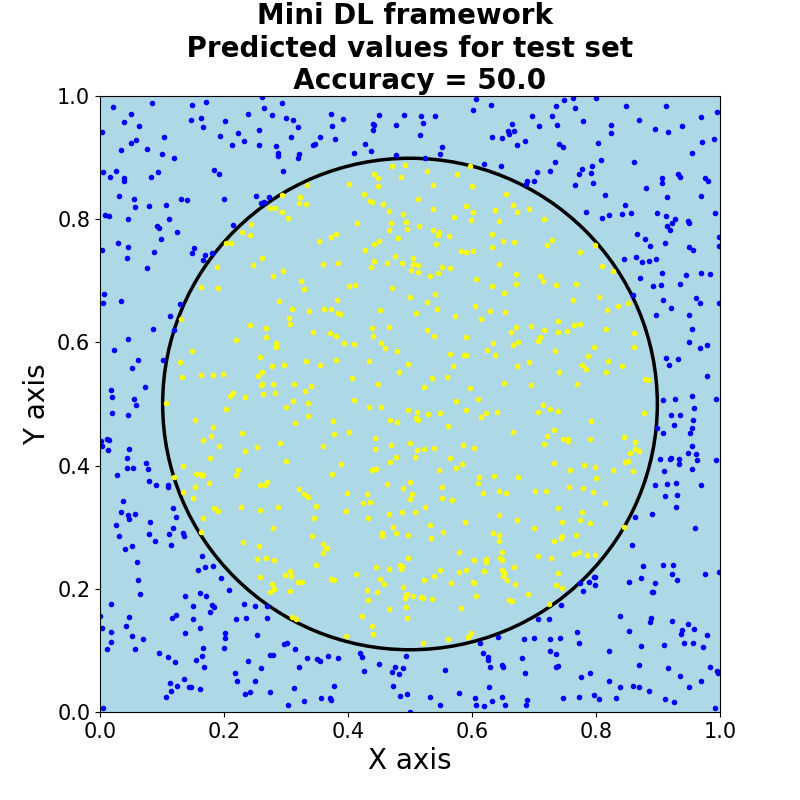
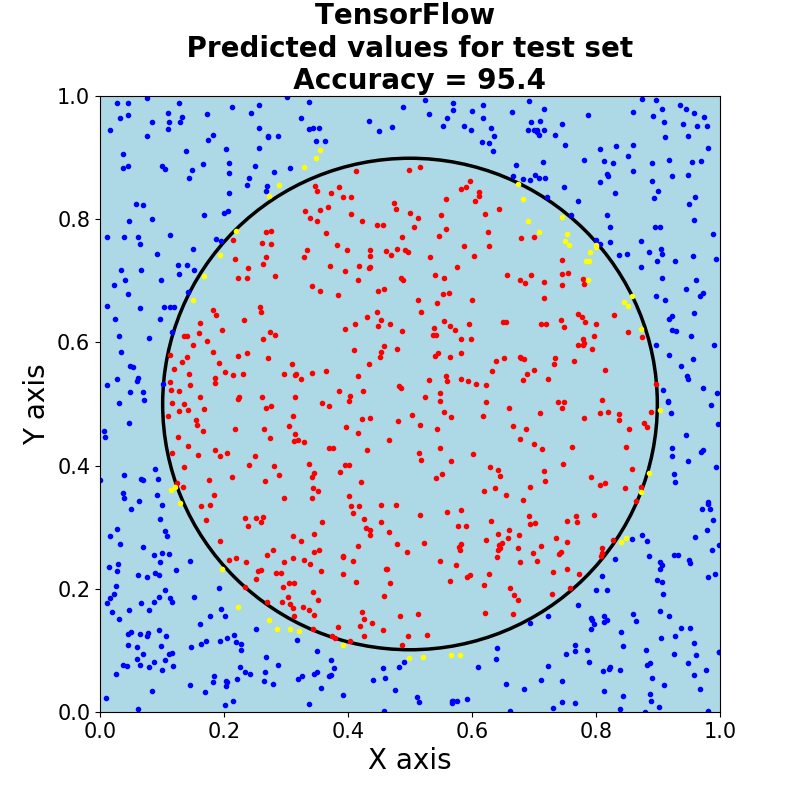
last version

diff --git a/test.py b/test.py
@@ -20,7 +20,6 @@ def generate_dataset(size):
 train_data, train_label = generate_dataset(1000)
 test_data,  test_label  = generate_dataset(1000)
 
-
 # Create sequential model
 model = models.Sequential()
 
@@ -31,7 +30,7 @@ model.add(activations.ReLU())
 model.add(layers.Linear(number_nodes=25))
 model.add(activations.ReLU())
 model.add(layers.Linear(number_nodes=1))
-model.add(activations.ReLU())
+model.add(activations.Tanh())
 
 model.compile(optimizer=optimizer.SGD(), loss=loss.MSE())
 
@@ -43,15 +42,19 @@ train_loss_per_epochs, train_accuracy_per_epochs, test_loss_per_epochs, test_acc
 test_loss,test_accuracy,predicted_labels = model.fit(test_data,test_label)
 
 for i in range(10):
-    print("epochs number {} : Loss = {} and Accuracy = {}".format( i+1,train_loss_per_epochs[i] , train_accuracy_per_epochs[i] ))
+   print("epochs number {} : Loss = {} and Accuracy = {}".format( i+1,train_loss_per_epochs[i] , train_accuracy_per_epochs[i] ))
 
 """
 #Plot result of Mini DL framework
-utils.plot_circle_with_predicted_labels(test_data, test_label, predicted_label=predicted_labels)
+#utils.plot_circle_with_predicted_labels(test_data, test_label, predicted_label=predicted_labels)
 
 #Apply tensorflow neural network on data
 utils.call_NN_tensorflow( train_data, train_label, test_data, test_label,
                 epochs= 10, 
                 show_accuracy = True,
                 show_points = True)
+
 """
+
+
+

diff --git a/mdlf/loss.py b/mdlf/loss.py
@@ -18,13 +18,13 @@ class MSE(Loss):
     def forward(self, input, label): 
         self.input = input
         self.label = label
-        loss_mse = ((input - label) ** 2).mean()
+        loss_mse = (0.5*(input - label) ** 2).mean()
         return loss_mse
         #raise NotImplementedError
 
     #TODO : change it
     def backward(self, input, label):
-        outpout =  2 * (input - label)
+        outpout =  input - label
         return outpout
         #return gradwrtoutput[0]
 

diff --git a/mdlf/models.py b/mdlf/models.py
@@ -118,7 +118,7 @@ class Sequential:
             loss.append(self.forward(train_data[i],train_label[i]))
             prediction.append(self.loss.input) 
 
-        prediction =[1 if n >=0.5 else 0 for n in prediction]
+        prediction =[1 if n >=0 else 0 for n in prediction]
         result = [i1 - i2 for i1, i2 in zip(prediction, train_label.tolist())]
         accuracy = 100 - result.count(0)/size * 100
 

diff --git a/mdlf/optimizer.py b/mdlf/optimizer.py
@@ -14,7 +14,6 @@ class SGD(Optimizer):
     def step(self, model, train_data, train_label):
         #when step is called, need to iterate on all the data points for 1 epoch
         random_int = empty(train_data.size(0)).uniform_(0, 1).sort().indices
-        
         for n in random_int :
             train_sample= train_data[n]
             train_sample_label= train_label[n]
